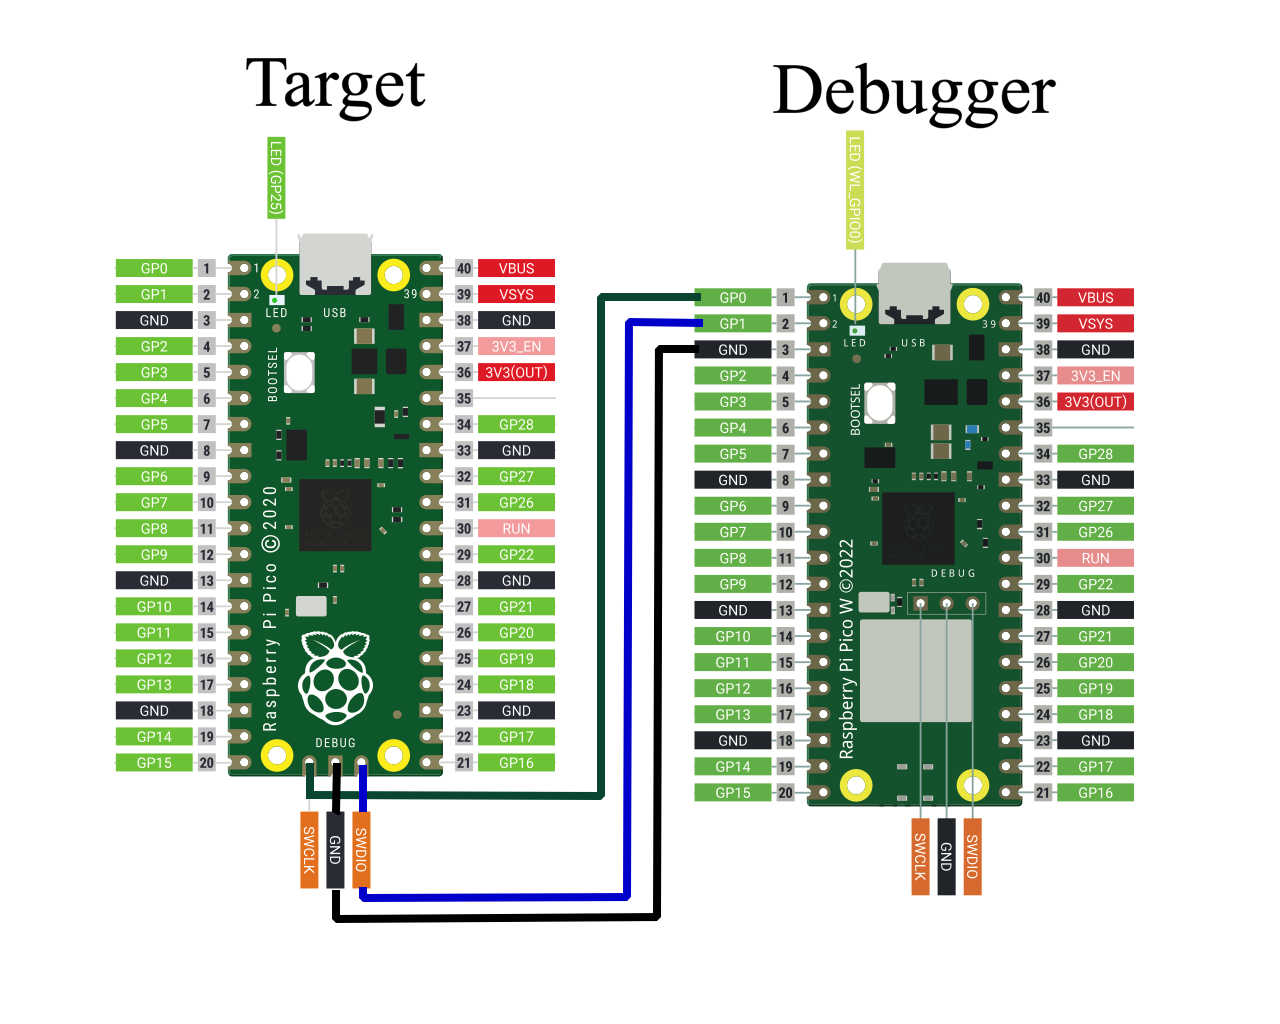
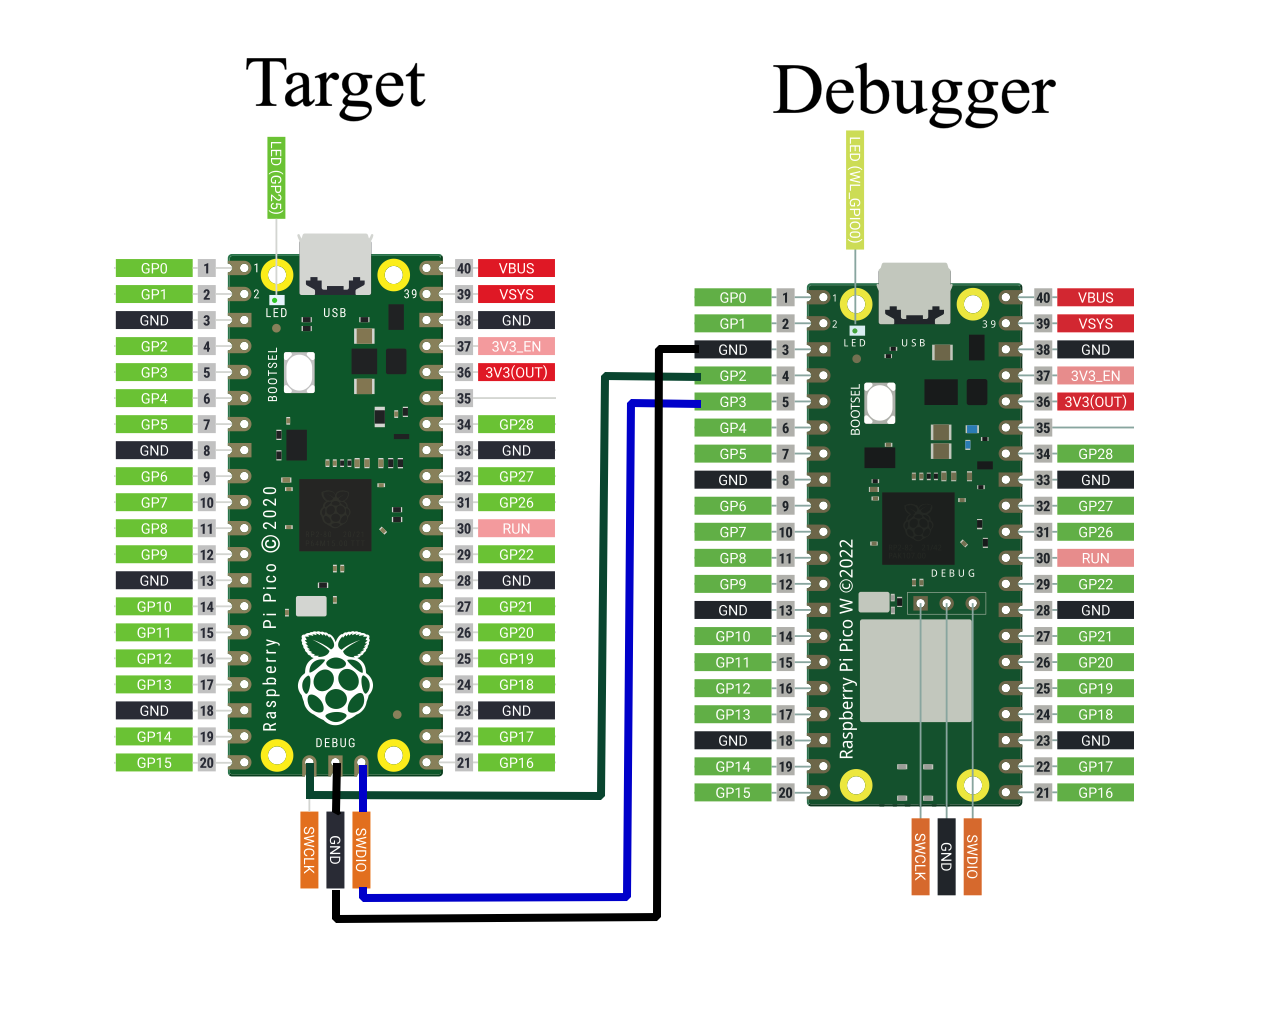
Update README
* Document new pins used for wiring up the SWD signals.
* Document change in the TCP/IP port number.

Changed region(s): [[0.4688, 0.2812, 0.5625, 0.75]]

diff --git a/README.md b/README.md
@@ -33,7 +33,7 @@
 * `break` (Hardware Breakpoints)
 * `watch`, `awatch`, `rwatch` (Hardware Watchpoints)
 * `monitor reset` (Reboot the microcontroller)
-* GDB connection over WiFi on port 4242
+* GDB connection over WiFi on port 2331
 
 ## Unsupported Features
 * Debugging of **Core 1 on the RP2040**
@@ -101,49 +101,51 @@ This build will encounter an error when building some of the pico-sdk sources. T
 Currently only 2 signal wires (and ground) need to be connected between the target RP2040 device and the Pico W based debugger device:
 | Pico W Debugger | Pico Target |
 |-----------------|-------------|
-| GPIO 0          | SWCLK       |
-| GPIO 1          | SWDIO       |
+| GPIO 2          | SWCLK       |
+| GPIO 3          | SWDIO       |
 | Gnd             | Gnd         |
 
 Both devices, target and debugger, need power. It is common to power each of the devices via their individual USB connectors.
-
-**Note:** _In the future I will probably switch to pins other than GPIO 0 and GPIO 1 on the Debugger side as those are the default UART pins but for now I am just using the first 2 pins that were available._
 
 
 ## Connecting GDB
 ### IP Address
 A terminal program must be connected to the USB based serial connection made available from the Pico W running the `mri-swd` firmware. When `mri-swd` is starting up output like the following will be seen in this terminal session:
 ```
- info: main.cpp:38 main() - Starting up...
- info: main.cpp:41 main() - Connecting to Wi-Fi router...
- info: main.cpp:49 main() - Connected.
-error: mri_platform.cpp:189 initSWD() - Found target=0x01002927 with DPIDR=0x0BC12477
- info: mri_platform.cpp:198 initSWD() - Initializing target's debug components...
-debug: swd.cpp:583 checkAP() - peripheralComponentIDs[]=
-debug: swd.cpp:584 checkAP() - {
-debug: swd.cpp:587 checkAP() -     0x00000004
-debug: swd.cpp:587 checkAP() -     0x00000000
-debug: swd.cpp:587 checkAP() -     0x00000000
-debug: swd.cpp:587 checkAP() -     0x00000000
-debug: swd.cpp:587 checkAP() -     0x000000C0
-debug: swd.cpp:587 checkAP() -     0x000000B4
-debug: swd.cpp:587 checkAP() -     0x0000000B
-debug: swd.cpp:587 checkAP() -     0x00000000
-debug: swd.cpp:587 checkAP() -     0x0000000D
-debug: swd.cpp:587 checkAP() -     0x00000010
-debug: swd.cpp:587 checkAP() -     0x00000005
-debug: swd.cpp:587 checkAP() -     0x000000B1
-debug: swd.cpp:589 checkAP() - }
-debug: swd.cpp:598 checkAP() - CPUID=0x410CC601
- info: mri_platform.cpp:205 initSWD() - Initialization complete!
- info: gdb_socket.cpp:33 init() - Starting server at 10.0.0.24 on port 4242
+  info: main.cpp:33 main() - Starting up...
+ info: mri_platform.cpp:214 attemptSwdAttach() - Found DPv2 SWD Target=0x01002927 with DPIDR=0x0BC12477
+ info: mri_platform.cpp:227 attemptSwdAttach() - Initializing target's debug components...
+debug: swd.cpp:645 checkAP() - peripheralComponentIDs[]=
+debug: swd.cpp:646 checkAP() - {
+debug: swd.cpp:649 checkAP() -     0x00000004
+debug: swd.cpp:649 checkAP() -     0x00000000
+debug: swd.cpp:649 checkAP() -     0x00000000
+debug: swd.cpp:649 checkAP() -     0x00000000
+debug: swd.cpp:649 checkAP() -     0x000000C0
+debug: swd.cpp:649 checkAP() -     0x000000B4
+debug: swd.cpp:649 checkAP() -     0x0000000B
+debug: swd.cpp:649 checkAP() -     0x00000000
+debug: swd.cpp:649 checkAP() -     0x0000000D
+debug: swd.cpp:649 checkAP() -     0x00000010
+debug: swd.cpp:649 checkAP() -     0x00000005
+debug: swd.cpp:649 checkAP() -     0x000000B1
+debug: swd.cpp:651 checkAP() - }
+debug: swd.cpp:660 checkAP() - CPUID=0x410CC601
+ info: mri_platform.cpp:234 attemptSwdAttach() - SWD initialization complete!
+ info: mri_platform.cpp:240 initNetwork() - Initializing network...
+ info: mri_platform.cpp:251 initNetwork() - Attempting to connect to Wi-Fi router...
+ info: mri_platform.cpp:254 initNetwork() - Connected to Wi-Fi router.
+ info: gdb_socket.cpp:36 init() - Starting server at 10.0.0.12 on port 2331
+ info: mri_platform.cpp:795 initDWT() - CPU supports 2 hardware watchpoints.
+ info: mri_platform.cpp:857 initFPB() - CPU supports 4 hardware breakpoints.
 ```
-The last line shows the `10.0.0.24` IP address assigned to the `mri-swd` device on this particular network. Take note of this IP address so that it can be used later when attaching GDB.
+The third line up from the bottom shows the `10.0.0.12` IP address assigned to the `mri-swd` device on this particular network. Take note of this IP address so that it can be used later when attaching GDB.
 
 ### GDB Connection
-The following is an example shell session where GDB is launched and told to connect and start debugging a RP2040 microcontroller via the WiFi IP address that was noted in the previous section (`10.0.0.24`):
-```
-$ arm-none-eabi-gdb -ex "set target-charset ASCII" -ex "set print pretty on" -ex "set remotelogfile mri.log" -ex "target remote 10.0.024:4242" -ex "set mem inaccessible-by-default off" test.elf
+The following is an example shell session where GDB is launched and told to connect and start debugging a RP2040 microcontroller via the WiFi IP address that was noted in the previous section (`10.0.0.12`). Port 2331 is the default TCP/IP port number used by `mri-swd` but it can be changed in the [config.h](config.h) file discussed further down in this documentation.
+
+```console
+$ arm-none-eabi-gdb -ex "set target-charset ASCII" -ex "set print pretty on" -ex "set remotelogfile mri.log" -ex "target remote 10.0.0.12:2331" -ex "set mem inaccessible-by-default off" test.elf
 
 GNU gdb (Arm GNU Toolchain 12.2 (Build arm-12-mpacbti.34)) 13.1.90.20230307-git
 Copyright (C) 2023 Free Software Foundation, Inc.
@@ -161,10 +163,17 @@ Find the GDB manual and other documentation resources online at:
 For help, type "help".
 Type "apropos word" to search for commands related to "word"...
 Reading symbols from build/QuadratureDecoder.elf...
-Remote debugging using 10.0.0.24:4242
-time_us_64 () at /Users/foobar/QuadratureDecoder/pico-sdk/src/rp2_common/hardware_timer/timer.c:44
-44	        lo = timer_hw->timerawl;
-(gdb)
+Remote debugging using 10.0.0.12:2331
+get_absolute_time () at /depots/QuadratureDecoder/pico-sdk/src/common/pico_time/include/pico/time.h:63
+63	    update_us_since_boot(&t, time_us_64());
+(gdb) load
+Loading section .boot2, size 0x100 lma 0x10000000
+Loading section .text, size 0x7130 lma 0x10000100
+Loading section .rodata, size 0x17c8 lma 0x10007230
+Loading section .binary_info, size 0x1c lma 0x100089f8
+Loading section .data, size 0x2dc lma 0x10008a14
+Start address 0x100001e8, load size 36080
+Transfer rate: 47 KB/sec, 5154 bytes/write.
 ```
 
 
